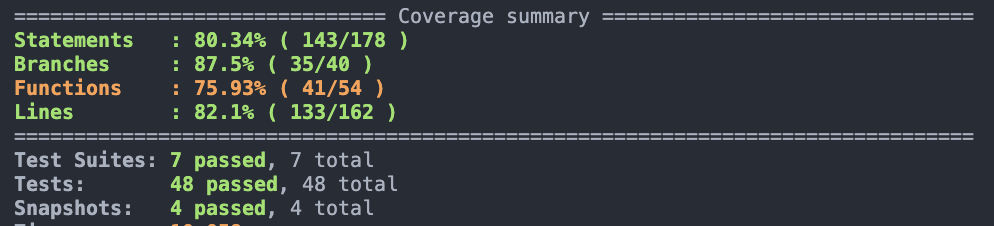
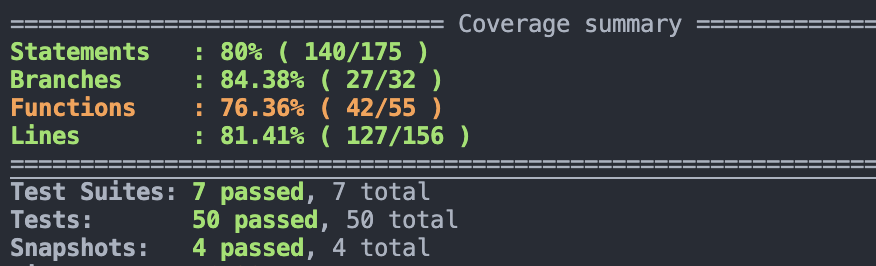
Fix: getIslands util

Changed region(s): [[0.0, 0.031, 1.0, 0.5575], [0.0, 0.5885, 1.0, 1.0], [0.1541, 0.9912, 0.2466, 1.0]]

diff --git a/src/utils/matrix.utils.test.ts b/src/utils/matrix.utils.test.ts
@@ -1,4 +1,5 @@
 import * as utils from './matrix.utils';
+import { ICell } from '../interfaces';
 
 describe('Matrix Utils', () => {
   describe('createMatrix', () => {
@@ -28,6 +29,8 @@ describe('Matrix Utils', () => {
     });
   });
   describe('getIslands', () => {
+    // util to convert arr of ids into acive ones
+    const toActivePoints = (arr: string[]): ICell[] => arr.map(id => ({ id, active: true }));
     it('Should correct islands', () => {
       const props = [
         { id: '3-1', active: true },
@@ -113,6 +116,32 @@ describe('Matrix Utils', () => {
 
       const islandGroups = utils.getIslands(props);
       expect(islandGroups.length).toEqual(expectedGroupsResult.length);
+    });
+    it('Should correct islands', () => {
+      const arrOfPoints = [
+        { id: '3-1', active: true },
+        { id: '1-2', active: true },
+        { id: '2-2', active: true },
+        { id: '3-2', active: true }
+      ];
+      const expectResult = [['3-1', '1-2', '2-2', '3-2']];
+
+      const result = utils.getIslands(arrOfPoints);
+
+      expect(result).toStrictEqual(expectResult);
+      expect(result.length).toEqual(1);
+    });
+    it('Should correct islands', () => {
+      // Arrange
+      const arrOfPoints = toActivePoints(['1-3', '2-1', '2-2', '2-3']);
+      const expectResult = [['1-3', '2-1', '2-2', '2-3']];
+
+      // Action
+      const result = utils.getIslands(arrOfPoints);
+
+      // Asserts
+      expect(result).toStrictEqual(expectResult);
+      expect(result.length).toEqual(1);
     });
   });
   describe('getAristas', () => {

diff --git a/src/utils/matrix.utils.ts b/src/utils/matrix.utils.ts
@@ -42,27 +42,15 @@ export const parseStringId = (id: string): number[] => {
  */
 export const getIslands = (activeCells: ICell[]): string[][] => {
   const activeIds: string[] = activeCells.map(cell => cell.id);
-  const result: string[][] = [];
-
+  let result: string[][] = [];
   activeIds.forEach(p1 => {
-    !result.some(group =>
-      group.some(p2 => {
-        if (isFamily(p1, p2)) {
-          group.push(p1);
-          return true;
-        }
-        if (isDiagonal(p1, p2)) {
-          const [ar1, ar2] = getAristas(p1, p2);
-          if (activeIds.some(p => p === ar1 || p === ar2)) {
-            group.push(p1);
-            return true;
-          }
-        }
-        return false;
-      })
-    ) && result.push([p1]);
+    const groups = result.filter(group => group.some(p2 => isFamily(p1, p2)));
+    if (groups.length) {
+      result = result.filter(r => !groups.some(g => g === r));
+      return result.push([...groups.flat(), p1]);
+    }
+    result.push([p1]);
   });
-
   return result;
 };
 

diff --git a/src/setupTests.js b/src/setupTests.js
@@ -2,5 +2,6 @@ import React from 'react';
 import { configure } from 'enzyme';
 import EnzymeAdapter from 'enzyme-adapter-react-16';
 import '@testing-library/jest-dom/extend-expect';
+import 'core-js';
 
 configure({ adapter: new EnzymeAdapter() });
